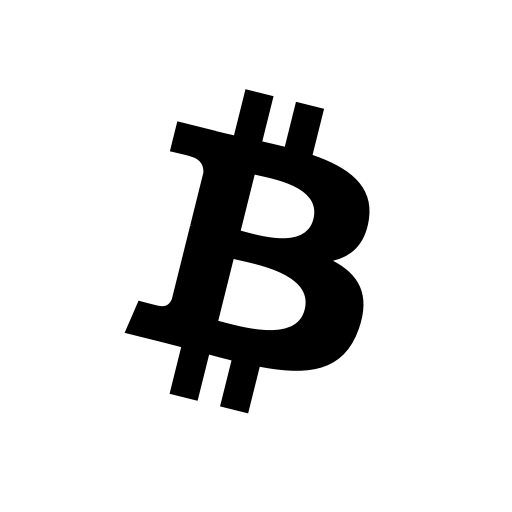
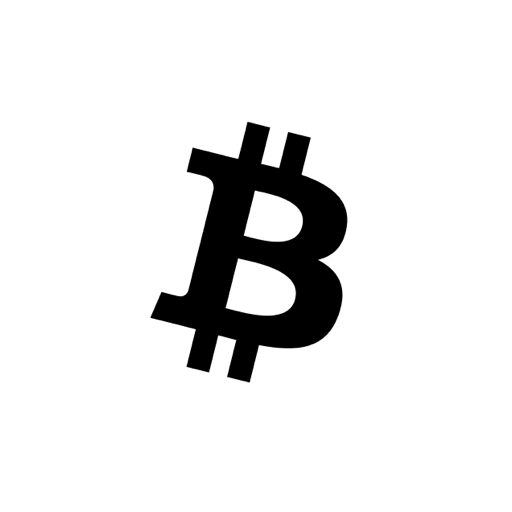
Release 1.1.1 (#2)
* Updated icons

Changed region(s): [[0.25, 0.1562, 0.7188, 0.8125]]

diff --git a/index.html b/index.html
@@ -13,7 +13,7 @@
 
         <link rel="manifest" href="manifest.json">
 
-        <link rel="icon" type="image/png" href="images/icon-192.png">
+        <link rel="icon" type="image/png" href="images/favicon.png">
         <link rel="apple-touch-icon" sizes="192x192" href="images/icon-192.png">
         <link rel="apple-touch-icon" sizes="512x512" href="images/icon-512.png">
 
